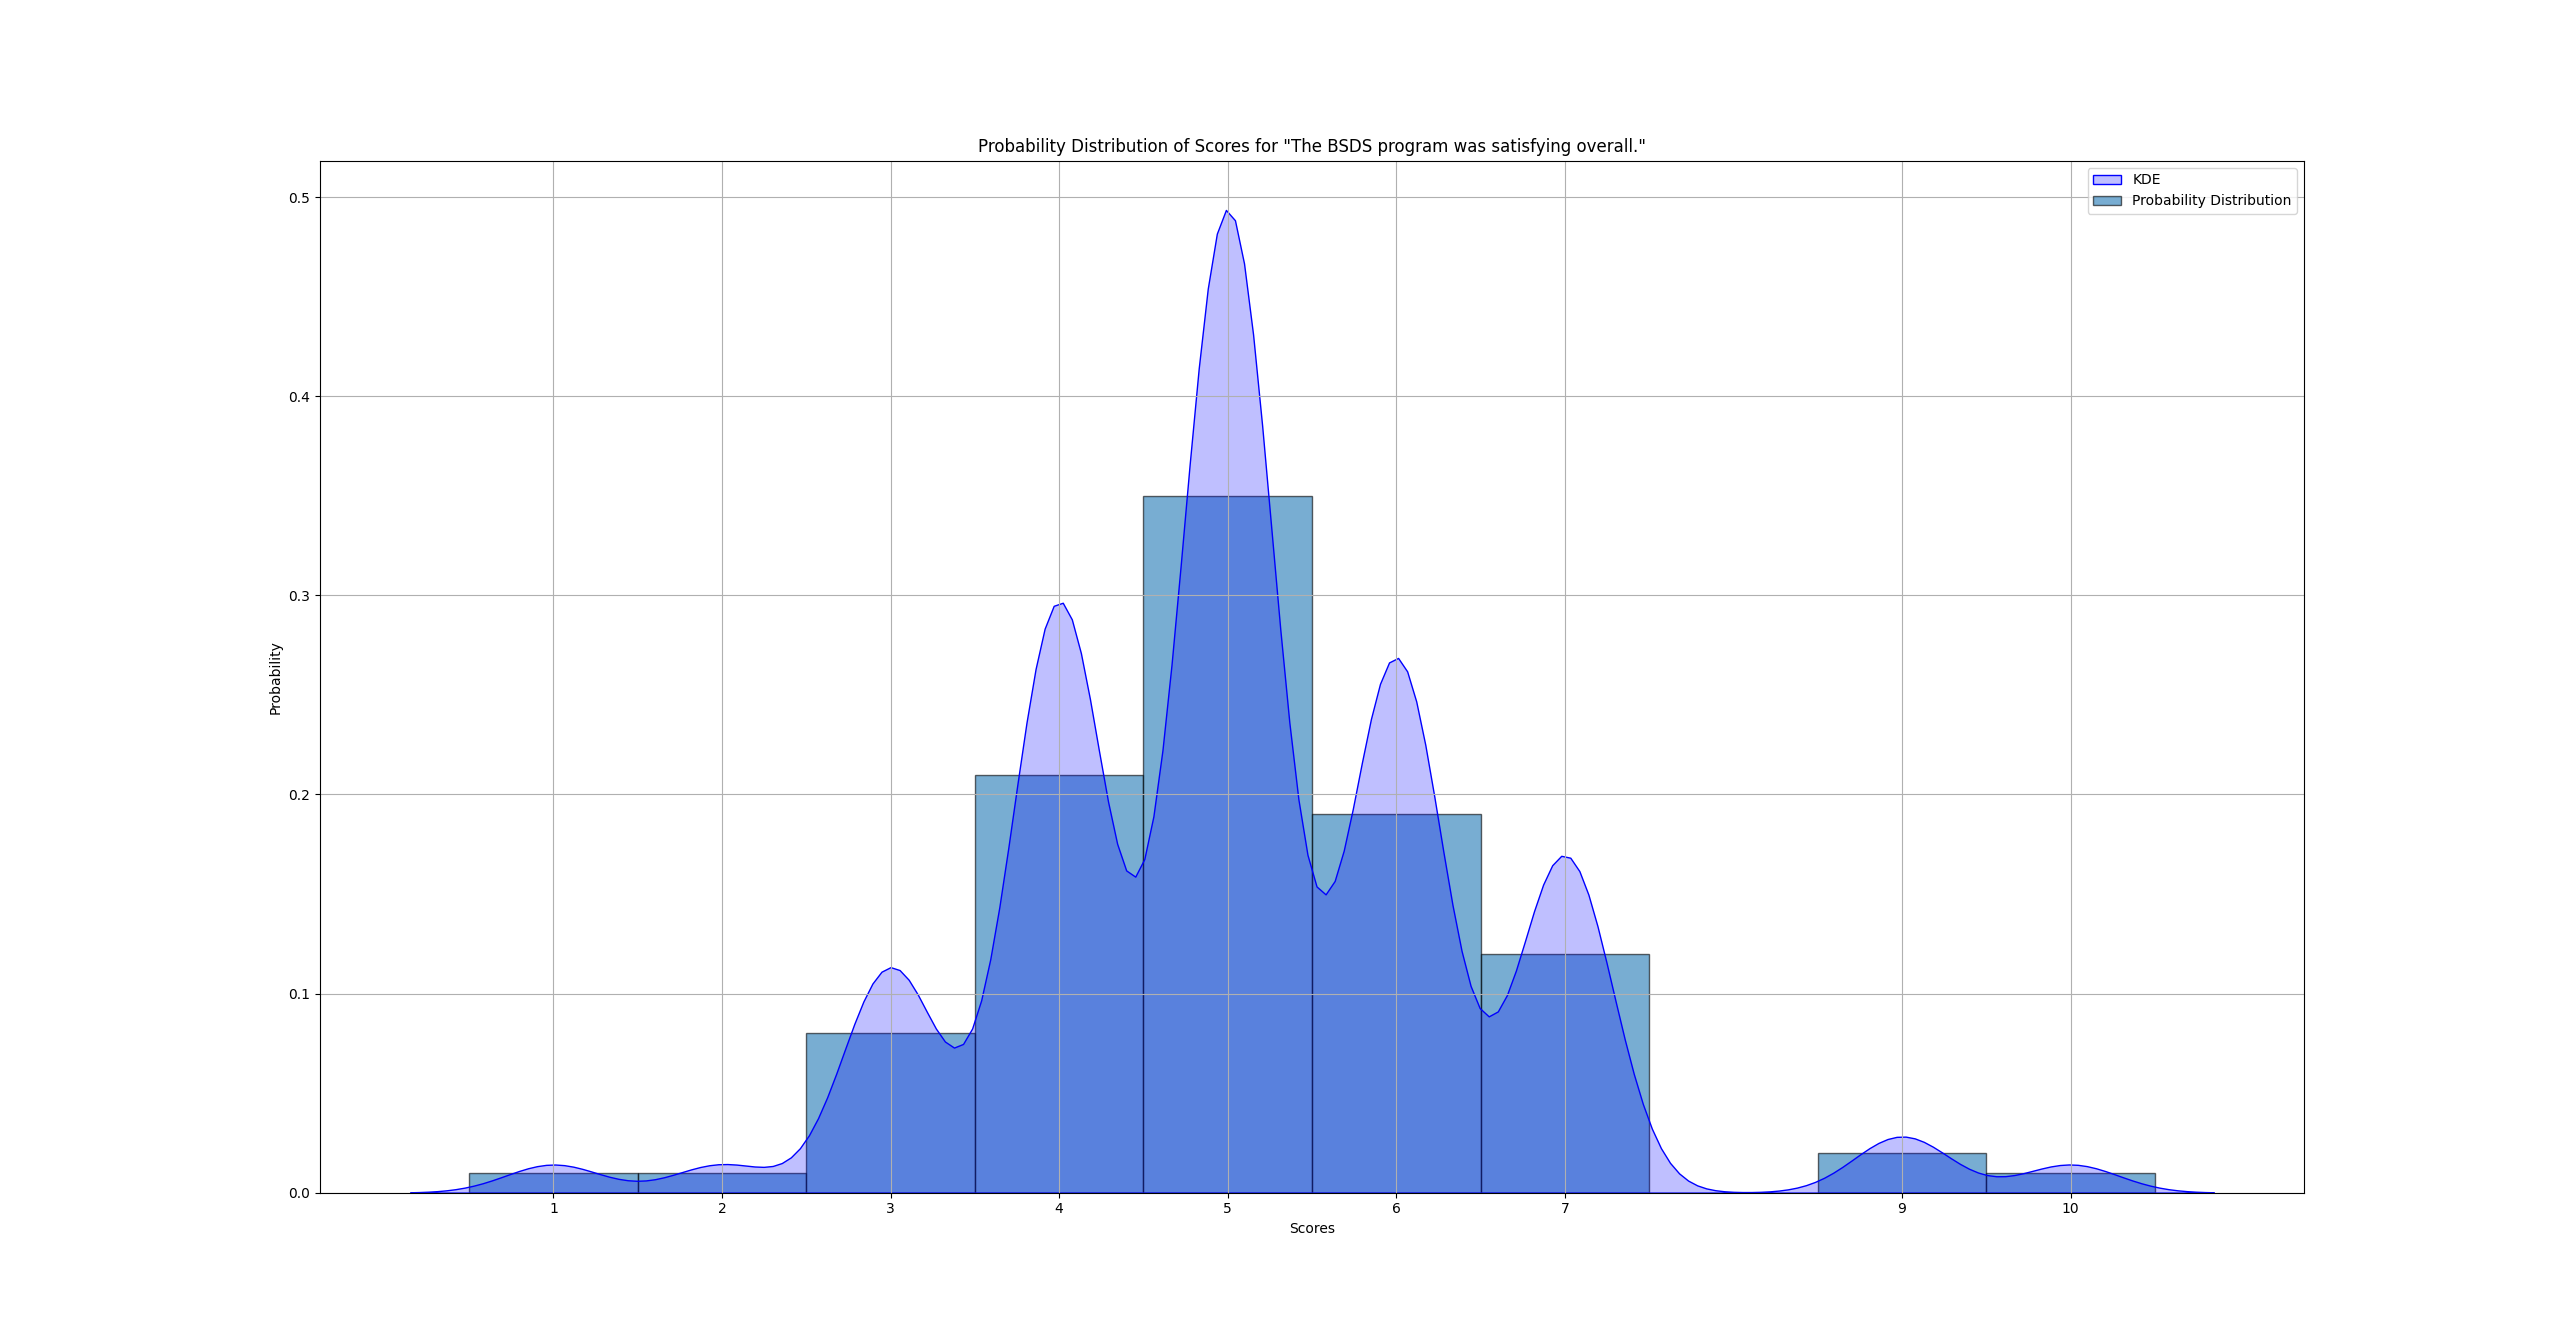
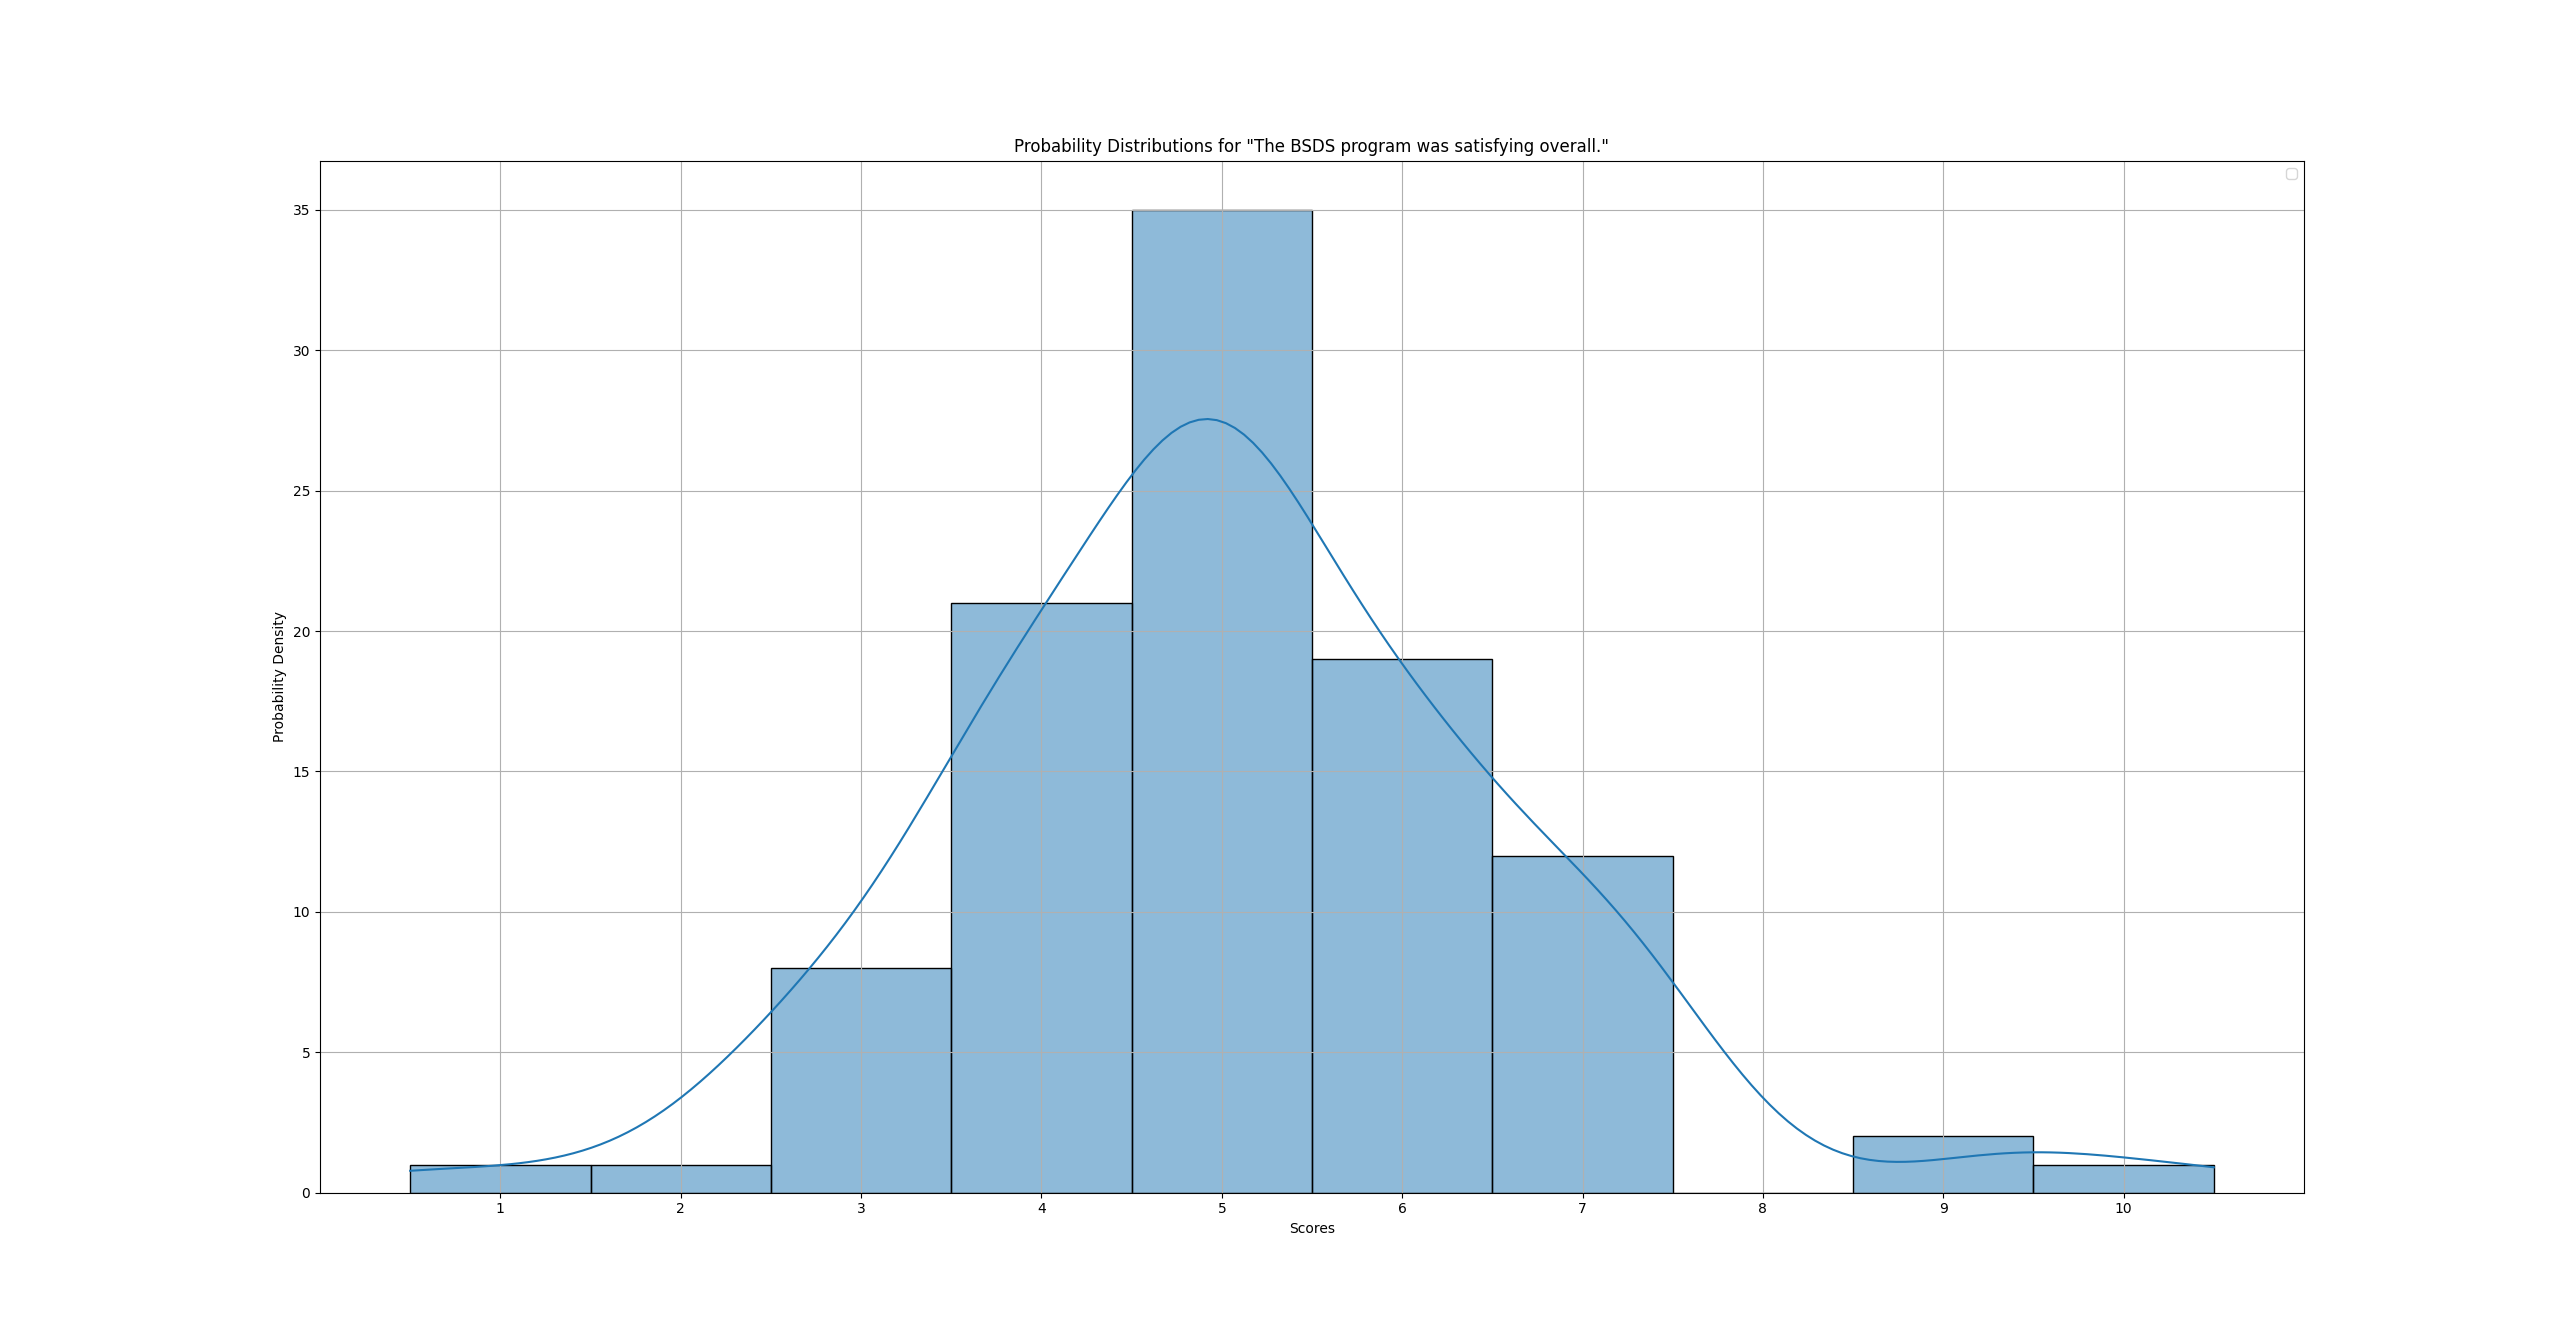
Plotted smooth probability distribution for "The BSDS program was satisfying overall."

diff --git a/Plot_Probability_Distributions_Of_Scores_For_The_BSDS_Program_Is_Satisfying_Overall.py b/Plot_Probability_Distributions_Of_Scores_For_The_BSDS_Program_Is_Satisfying_Overall.py
@@ -1,17 +1,17 @@
 import matplotlib.pyplot as plt
 import pandas as pd
 import seaborn as sns
+import numpy as np
 
 data_frame_of_features = pd.read_csv("Feature_Matrix.csv", header = 0, index_col = 0)
 series_of_scores = pd.to_numeric(data_frame_of_features.iloc[0][2:])
-score_counts = series_of_scores.value_counts().sort_index()
-probabilities = score_counts / score_counts.sum()
-plt.bar(probabilities.index, probabilities.values, width = 1.0, edgecolor = "black", alpha = 0.6, label = "Probability Distribution")
-sns.kdeplot(series_of_scores, bw_adjust = 0.5, fill = True, label = "KDE", color = "blue")
-plt.title("Probability Distribution of Scores for \"The BSDS program was satisfying overall.\"")
+hist_data = sns.histplot(series_of_scores, bins = 10, kde = True)
+plt.title("Probability Distributions for \"The BSDS program was satisfying overall.\"")
 plt.xlabel("Scores")
-plt.ylabel("Probability")
-plt.xticks(probabilities.index)
+plt.ylabel("Probability Density")
+bin_edges = np.histogram_bin_edges(series_of_scores, bins = 10)
+bin_centers = 0.5 * (bin_edges[:-1] + bin_edges[1:])
+plt.xticks(bin_centers, labels = range(1, 11))
 plt.grid()
 plt.legend()
 plt.show()
